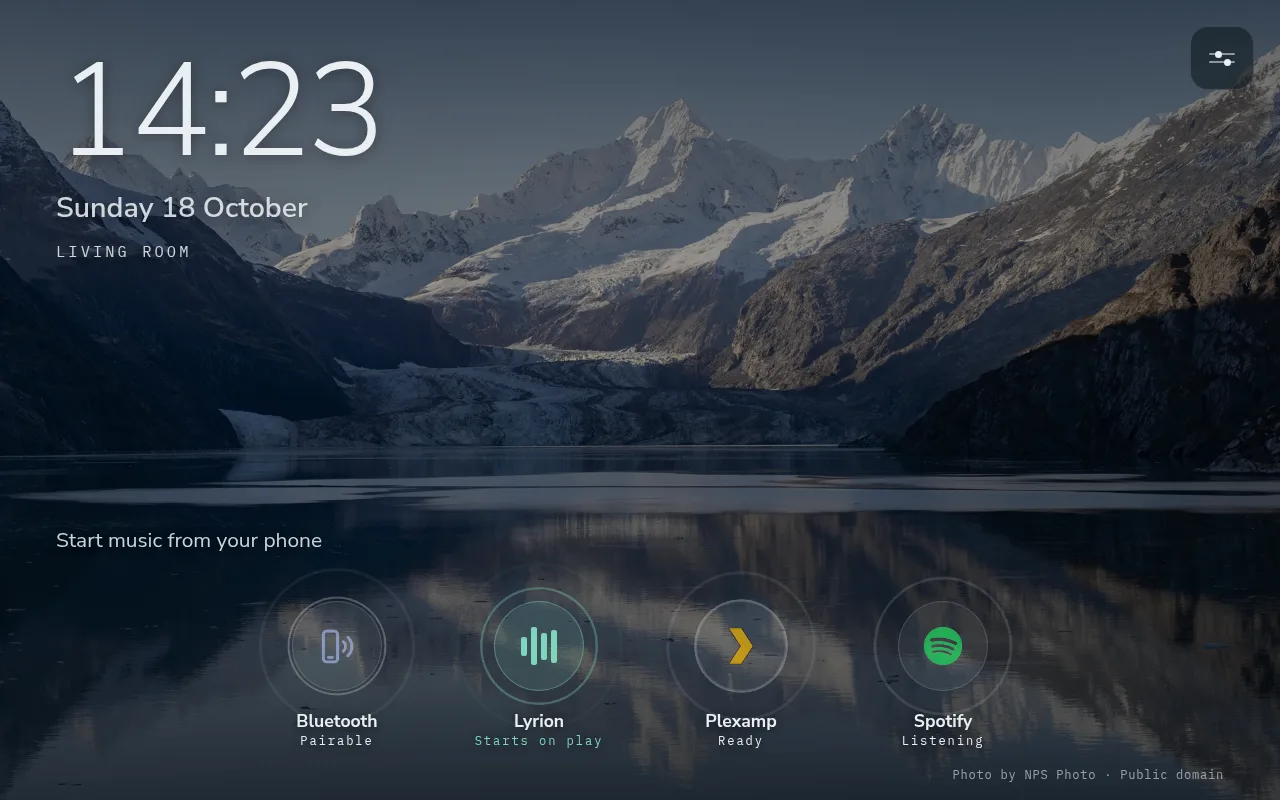
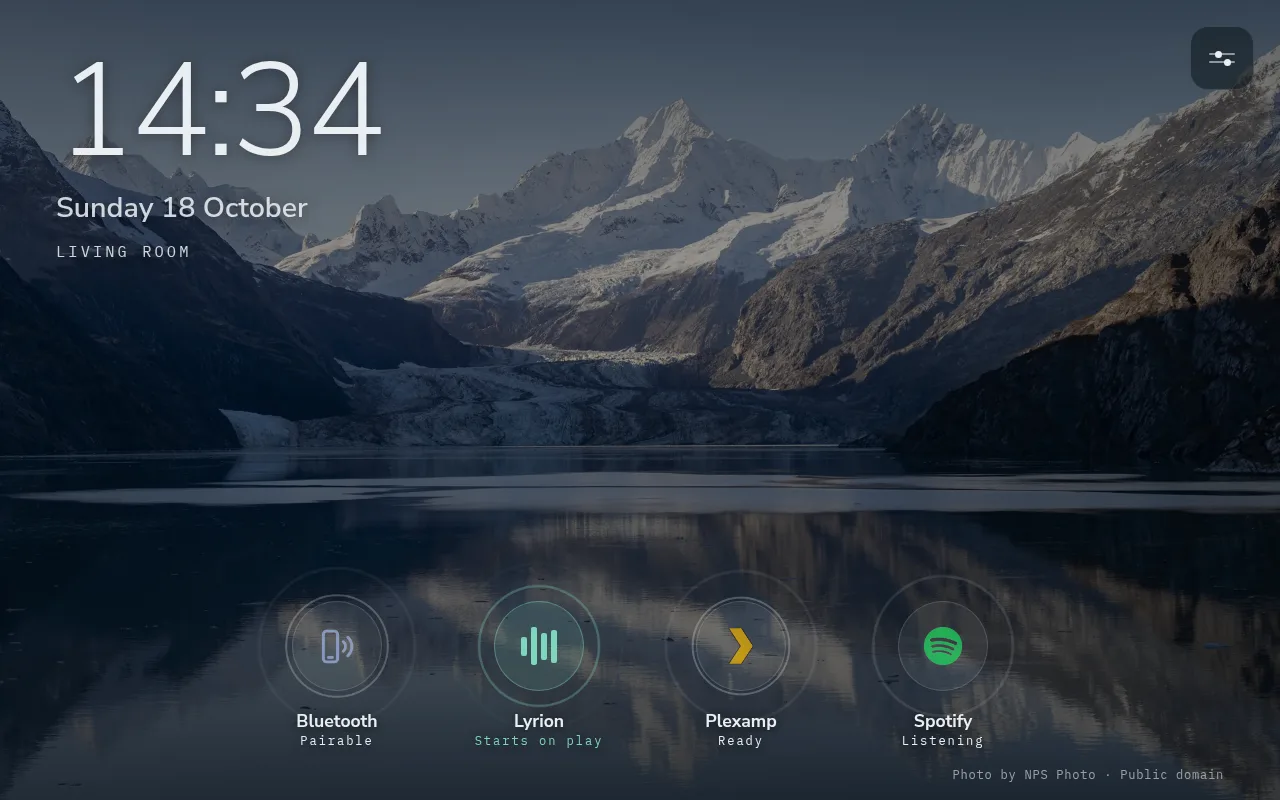
Waiting screen: no hint line, and no setting for it
George, 2026-10-18: "Let's remove it together also with its setting."
"Start music from your phone" is gone from the waiting screen, and so
is Hint on the waiting screen (waiting_hint). Settings migration 11
drops the stored value.

Docs: manual (row and picture, retaken through the demo front),
technical guide, ADR-0022 (the row marked removed), ADR-0133 amended.

diff --git a/ui/src/screens/WaitingHome.svelte b/ui/src/screens/WaitingHome.svelte
@@ -12,9 +12,9 @@
     smaller than the idle screen's (*Clock on the waiting screen*).
   - **Each waiting source pulses at the foot** - the marks, names and
     states of the library's waiting footer (`WaitingServices`), straight on
-    the picture without its plate (George, 2026-10-18) - and one line above
-    them is the only other text (*Hint on the waiting screen*). On a bar, the
-    clock is a column on the left and the marks stand beside it, with no hint.
+    the picture without its plate (George, 2026-10-18); no other text (its
+    hint line went the same day). On a bar, the clock is a column on the left
+    and the marks stand beside it.
   - **Settings stays the button in the corner** (ADR-0079), and a screen
     with every source switched off says so.
 
@@ -45,7 +45,6 @@
 
   const bar = $derived(screen.family === 'bar');
   const wantsClock = $derived(settings.waiting_clock !== false);
-  const wantsHint = $derived(settings.waiting_hint !== false && !bar);
   const twelve = $derived(settings.clock_format === '12 h');
   const name = $derived($settingsDevice.name || '');
 
@@ -112,7 +111,6 @@
     </div>
   {:else}
     <div class="foot">
-      {#if wantsHint}<div class="hint">Start music from your phone</div>{/if}
       <!-- The marks the library's footer shows, pulsing straight on the
            picture (George, 2026-10-18). -->
       <WaitingServices {availability} bare />
@@ -256,13 +254,6 @@
     display: flex;
     flex-direction: column;
     gap: 16px;
-  }
-  .hint {
-    /* Room for the marks' rings, which pulse to 1.75 times their size. */
-    margin-bottom: 26px;
-    font-size: 19px;
-    color: var(--ink-strong);
-    text-shadow: 0 1px 12px rgba(0, 0, 0, 0.45);
   }
   .credit {
     position: absolute;

diff --git a/core/tests/test_settings_registry.py b/core/tests/test_settings_registry.py
@@ -185,7 +185,7 @@ def test_registry_keys_are_the_designs_keys_apart_from_recorded_deviations():
         # ADR-0133, 2026-10-10: the player's own wallpapers, which the design
         # predates - styles, time of day, seasons, holidays.
         "wallpaper_styles", "wallpaper_time_of_day", "wallpaper_seasons", "wallpaper_holidays",
-        "waiting_clock", "waiting_hint",
+        "waiting_clock",
         # Finding 118: the weather icons' animations hold half a core; the
         # owner chooses (George, 2026-10-11).
         "idle_icon_motion",
@@ -670,7 +670,8 @@ def test_the_shipped_registry_hides_the_inventoried_rows_and_shows_the_rest():
     # information tile (ADR-0141 D2/D4, 2026-10-12). **120**: Gain
     # (ADR-0146, 2026-10-13). **121**: Needles follow the volume (ADR-0146
     # amended, the same day). **122**: Text size (ADR-0148, 2026-10-14).
-    assert len(rows) == 122
+    # **121**: the waiting screen's hint line removed (George, 2026-10-18).
+    assert len(rows) == 121
     # 59 since 2026-09-25: `backup` was surfaced and `restore` arrived with
     # it (ADR-0083), so the shown count gains two while the hidden one loses
     # one. **58 since 2026-09-26**, less the threshold row. **60 since
@@ -690,7 +691,7 @@ def test_the_shipped_registry_hides_the_inventoried_rows_and_shows_the_rest():
     # 82 with Report this hardware (ADR-0126).
     # **81**: Software volume merged into Volume (ADR-0127). **80**: Pexels
     # removed.
-    assert len(rows) - len(kept) == 105  # 105: Text size (ADR-0148); 104: Needles follow the volume (ADR-0146 amended); 103: Gain (ADR-0146); 102: Screen port and its one-port tile (ADR-0141); 100: display standby (ADR-0135); 97: the idle switch and the home background (ADR-0133, 2026-10-11); 88: Weather icon motion (Finding 118); 87: Version hidden, it repeated Release; 88: the waiting screen's two rows (ADR-0133); 86: the own wallpapers (ADR-0133); 82: the factory reset (ADR-0132); 81: Cable (ADR-0123)
+    assert len(rows) - len(kept) == 104  # 104: the waiting screen's hint removed (2026-10-18); 105: Text size (ADR-0148); 104: Needles follow the volume (ADR-0146 amended); 103: Gain (ADR-0146); 102: Screen port and its one-port tile (ADR-0141); 100: display standby (ADR-0135); 97: the idle switch and the home background (ADR-0133, 2026-10-11); 88: Weather icon motion (Finding 118); 87: Version hidden, it repeated Release; 88: the waiting screen's two rows (ADR-0133); 86: the own wallpapers (ADR-0133); 82: the factory reset (ADR-0132); 81: Cable (ADR-0123)
 
 
 def test_the_clock_can_be_turned_off_without_taking_the_screen_with_it():

diff --git a/core/src/gexis_core/__main__.py b/core/src/gexis_core/__main__.py
@@ -2521,7 +2521,7 @@ async def main() -> None:
                # ADR-0133: read when the next picture is chosen.
                "wallpaper_styles": None, "wallpaper_time_of_day": None,
                "wallpaper_seasons": None, "wallpaper_holidays": None,
-               "waiting_clock": None, "waiting_hint": None,
+               "waiting_clock": None,
                "idle_icons": None,
                # Finding 118: read by the idle screen as it draws the icons.
                "idle_icon_motion": None,

diff --git a/core/src/gexis_core/settings_migrations.py b/core/src/gexis_core/settings_migrations.py
@@ -146,6 +146,9 @@ MIGRATIONS: tuple[Migration, ...] = (
     # loses the word, so the list shows it chosen.
     convert("output_device", lambda v: _without_state(v) if isinstance(v, str) else v,
             "output_device: the name alone, without Tested / Known / Detected / Reported"),
+    # George, 2026-10-18: the waiting screen's line "Start music from your
+    # phone" is gone, and its switch with it.
+    drop("waiting_hint", "waiting_hint: the waiting screen has no hint line"),
 )
 
 

diff --git a/docs/decisions/0022-settings.md b/docs/decisions/0022-settings.md
@@ -329,7 +329,7 @@ in Display:
 | Seasons | [N] | The season's pictures, by hemisphere from the time zone; default on |
 | Holidays | [N] | New Year, Christmas and Easter (Western or Orthodox) for the player's country, from the time zone and then the weather location; default on. On a holiday's days its pictures replace the styles (George: *"They replace them. For the time being if option is selected."*). **From 2026-10-11 it governs *Wallpapers online* too**, replacing the topics (George: *"holidays are a toggle that supersede the choice of wallpaper"*); `onlyWhen` names both backgrounds |
 | Clock on the waiting screen | [N] | Time, date and the player's name, top left; follows *Clock format*; default on |
-| Hint on the waiting screen | [N] | *Start music from your phone* above the source tiles; default on |
+| Hint on the waiting screen | [N] | *Start music from your phone* above the source tiles; default on. **Removed 2026-10-18** with the line itself (George: *"Let's remove it together also with its setting"*); settings migration 11 drops the stored value |
 | The home screen's background: Background, Wallpaper topics, Wallpaper styles, Follow the time of day, Seasons, Holidays, Background brightness, Change the picture every | [N] | **Appended 2026-10-11, confirmed by George** (ADR-0133 amended, second): the waiting screen's own, `waiting_*`, under *Home screen*, with the Lyrion client off; the idle screen's rows unchanged. **Fresh defaults** (George), not a copy; no *Artist pictures* |
 | Section headings: Touchpad, Volume, Photo service and location | — | Not settings: Display's sections from 2026-10-11 (George). *Photo service and location* holds the Pixabay key and the location, shared by both screens |
 

diff --git a/docs/manual/README.md b/docs/manual/README.md
@@ -419,7 +419,7 @@ answer*; the other shares are still mounted.
 | Volume: Volume drawer auto-hide | How long the drawer stays when a change from elsewhere opened it. |
 | Photo service and location: Pixabay API key, Location | Shared by both screens below. The key is for online wallpapers (Pixabay, free). The location is for the weather and for the wallpapers' seasons and holidays; until one is set, the country comes from the time zone. |
 | Home screen: Home screen list, Items in the strip | With the Lyrion client on: what the row under Home's cards shows, and how many. |
-| Home screen: Clock on the waiting screen, Hint on the waiting screen | With the Lyrion client off: the time, date and name in the top left, and the line *Start music from your phone* above the sources. |
+| Home screen: Clock on the waiting screen | With the Lyrion client off: the time, date and name in the top left. |
 | Home screen: Background and the rows after it | With the Lyrion client off: the waiting screen's own picture, set apart from the idle screen's, with the same rows as below (no artist pictures). |
 | Idle screen | On or off. Off (the default on a new player), the panel stays on what it shows and the rows below are hidden. |
 | Idle screen: Screen, Timeout | The built-in clock-and-weather screen, or an external page; and after how long, with nothing playing and nobody touching the panel. |

diff --git a/docs/decisions/0133-the-waiting-screen-and-the-players-own-wallpapers.md b/docs/decisions/0133-the-waiting-screen-and-the-players-own-wallpapers.md
@@ -266,3 +266,15 @@ whose tags carry no astronomy word:
 inside it is read as AND and narrows the answer, so the words are single.
 *universe* is left out: it matched the cosmos flower. Calm is unchanged.
 Not measured: later pages, and how the answer moves from day to day.
+
+## Amended 2026-10-18: the sources pulse on the picture, and no hint line
+
+George, with five sources on the 10.1" cutting the tiles' names: *"let's just
+reuse what we have on the waiting screen with the simple or extended
+navigation, but without the back bar. Just the icons pulsating directly on
+the wallpaper background"*. The tiles are gone; the waiting screen draws the
+library's waiting footer (`WaitingServices`) without its plate. Then, of the
+line *Start music from your phone*: *"Let's remove it together also with its
+setting"* - the line and *Hint on the waiting screen* are gone (settings
+migration 11 drops the stored value).
+

diff --git a/docs/tech/ui.md b/docs/tech/ui.md
@@ -352,8 +352,7 @@ scale factor) was tried first and set aside: the layouts are drawn for a
 
 `WaitingHome.svelte` (ADR-0079, drawn as ADR-0133) is the panel's root while
 `lms_enabled` is off and nothing is active: `Backdrop` behind a veil, the
-clock, date and device name top left (`waiting_clock`), the line *Start
-music from your phone* (`waiting_hint`, never on a bar), and a tile per
+clock, date and device name top left (`waiting_clock`), and a tile per
 renderer in `$sources` that `availability` marks waiting - drawn by
 `WaitingServices`, the library's waiting footer, in its `bare` form: the
 pulsing marks with their names and states straight on the picture, no plate
